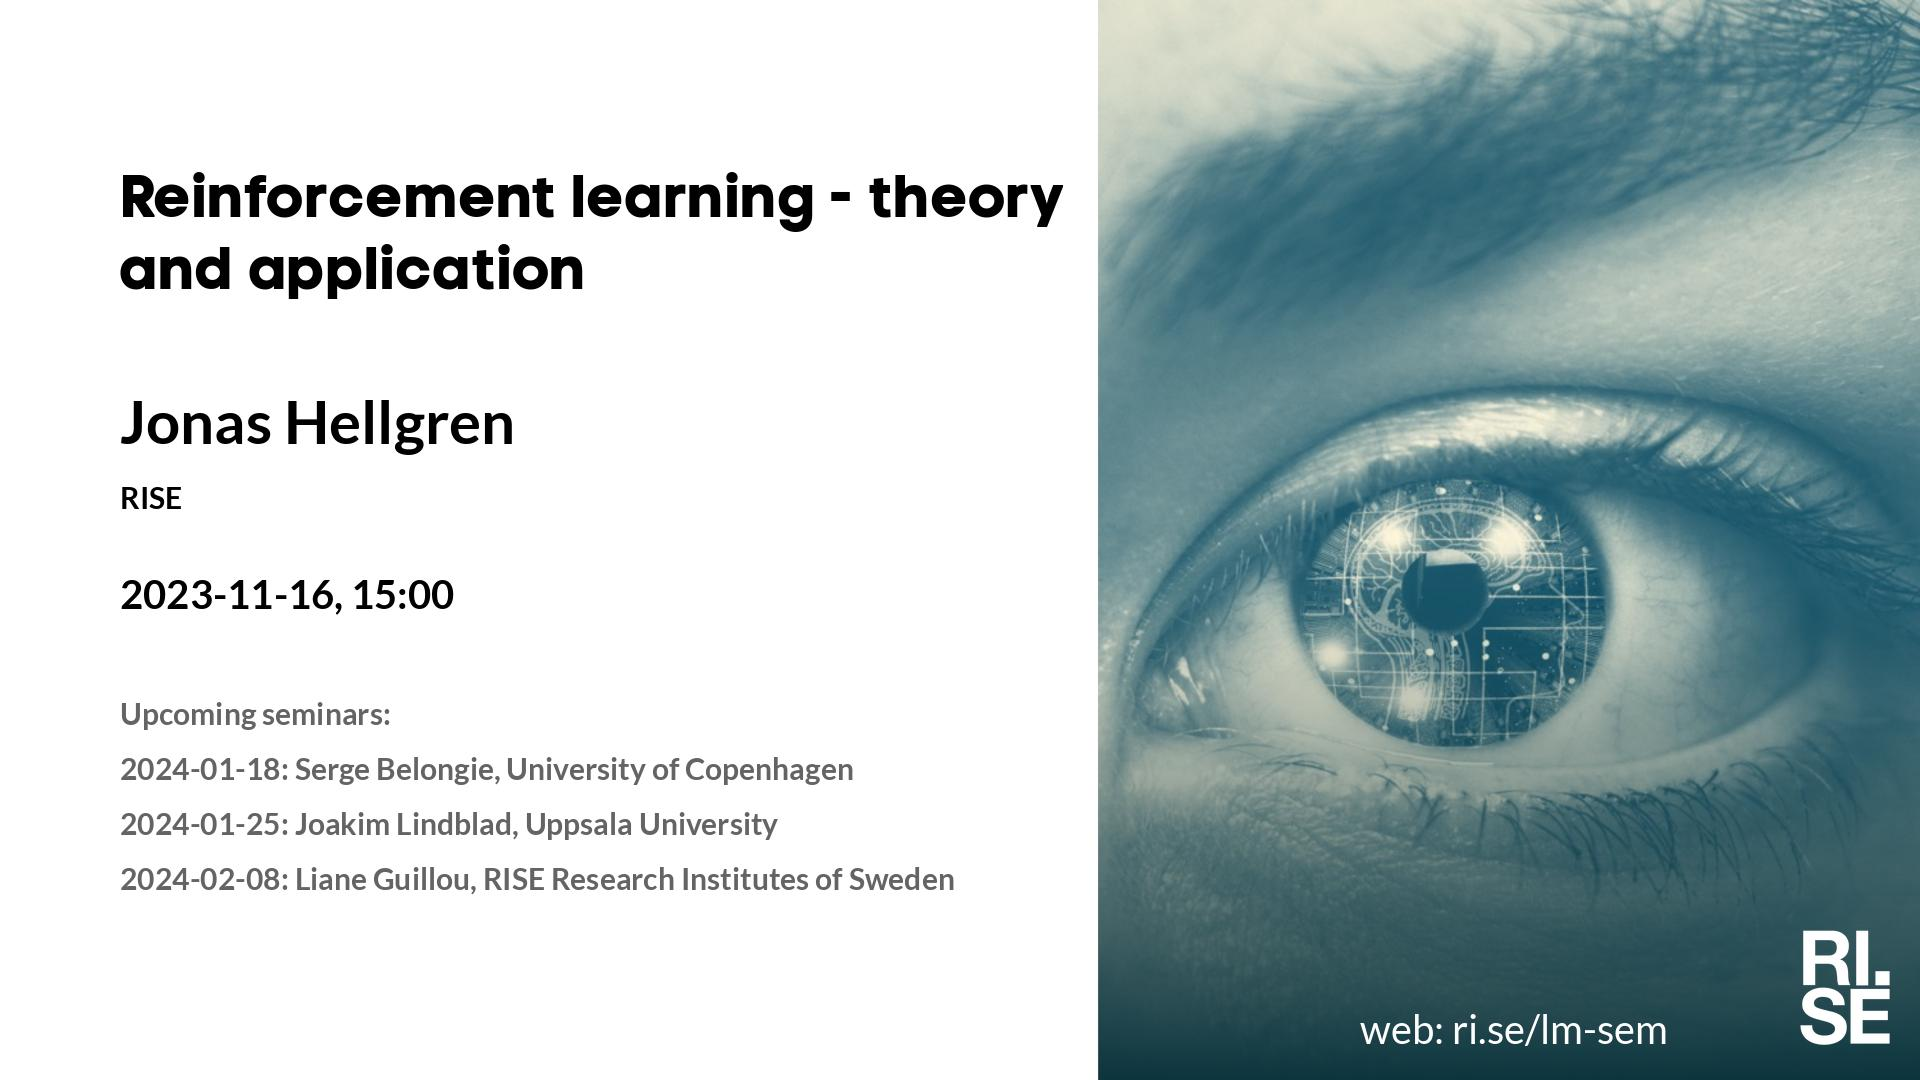
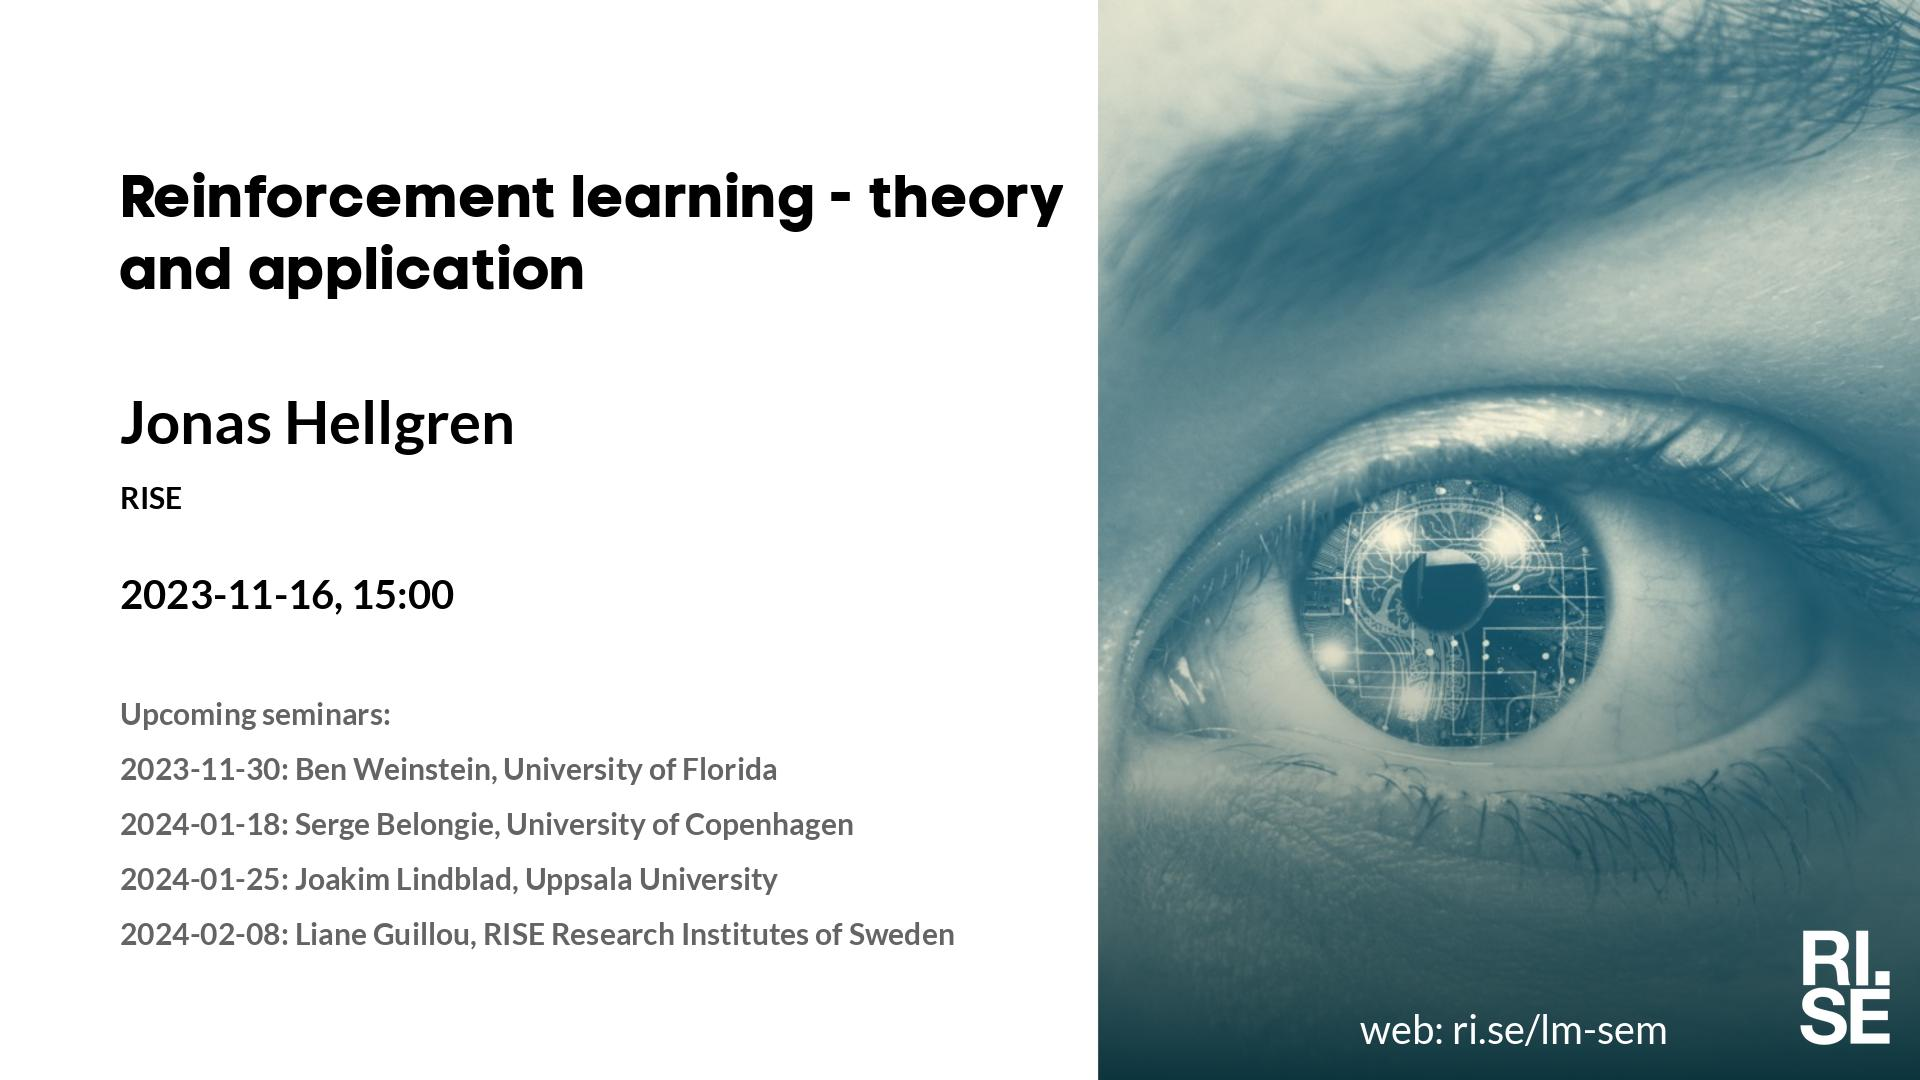
Updated plan on web site.

Changed region(s): [[0.0938, 0.7028, 0.5, 0.825], [0.0625, 0.8556, 0.5, 0.8861]]

diff --git a/lm/index.md b/lm/index.md
@@ -5,7 +5,7 @@ metatags: "<meta name=\"robots\" content=\"noindex,nofollow\" />"
 <style type="text/css" scoped>
 td, th {border: 1px solid #ccc; padding: 0.6em;}
 table {border-collapse: collapse;}
-</style># Learning Machines Plan 2023-10-05
+</style># Learning Machines Plan 2023-10-06
 
 | date | speaker                                   | photo | shareable | meeting backdrop | youtube thumbnail | <a title="Speaker, Title, Abstract, Bio, Photo. Strikethrough means we don't have it yet.">comment</a>        |
 | ---- | ----------------------------------------- | ----- | ----- | ----- | ----- | -------------- |
@@ -19,7 +19,7 @@ table {border-collapse: collapse;}
 |  2023-11-09  |  [Nataša Sladoje, Uppsala University](2023-11-09.md)  |    |  [social media ](social-media-natasa-sladoje.jpg)  |  [meeting backdrop ](meeting-backdrop-natasa-sladoje.jpg)  |  [youtube thumbnail ](youtube-thumbnail-natasa-sladoje.jpg)  |  S~~TABP~~  |
 |  2023-11-16  |  [Jonas Hellgren, RISE](2023-11-16.md)  |    |  [social media ](social-media-jonas-hellgren.jpg)  |  [meeting backdrop ](meeting-backdrop-jonas-hellgren.jpg)  |  [youtube thumbnail ](youtube-thumbnail-jonas-hellgren.jpg)  |  ST~~ABP~~  |
 | <span style="color:red"> 2023-11-23 </span> | <span style="color:red"> Thanksgiving </span> | <span style="color:red">  </span> | <span style="color:red">  </span> | <span style="color:red">  </span> | <span style="color:red">  </span> | <span style="color:red"> CANCELLED </span> |
-| <span style="color:grey"> 2023-11-30 </span> | <span style="color:grey"> Ben W. ? </span> | <span style="color:grey">  </span> | <span style="color:grey">  </span> | <span style="color:grey">  </span> | <span style="color:grey">  </span> | <span style="color:grey"> ?~~TABP~~ </span> |
+|  2023-11-30  |  [Ben Weinstein, University of Florida](2023-11-30.md)  |    |  [social media ](social-media-ben-weinstein.jpg)  |  [meeting backdrop ](meeting-backdrop-ben-weinstein.jpg)  |  [youtube thumbnail ](youtube-thumbnail-ben-weinstein.jpg)  |  S~~TABP~~  |
 | <span style="color:purple"> 2023-12-07 </span> | <span style="color:purple"> *Up for grabs!!!* </span> | <span style="color:purple">  </span> | <span style="color:purple">  </span> | <span style="color:purple">  </span> | <span style="color:purple">  </span> | <span style="color:purple"> ~~STABP~~ </span> |
 | <span style="color:purple"> 2023-12-14 </span> | <span style="color:purple"> *Up for grabs!!!* </span> | <span style="color:purple">  </span> | <span style="color:purple">  </span> | <span style="color:purple">  </span> | <span style="color:purple">  </span> | <span style="color:purple"> ~~STABP~~ </span> |
 | <span style="color:red"> 2023-12-21 </span> | <span style="color:red"> Christmas </span> | <span style="color:red">  </span> | <span style="color:red">  </span> | <span style="color:red">  </span> | <span style="color:red">  </span> | <span style="color:red"> CANCELLED </span> |

diff --git a/lm/2023-11-30.md b/lm/2023-11-30.md
@@ -4,9 +4,9 @@ metatags: "<meta name=\"robots\" content=\"noindex,nofollow\" />"
 ---
 Welcome to this week's Learning Machines seminar.
 
-**Title:** Reinforcement learning - theory, toy problems from Open AI Gym, and application examples
+**Title:** N/A
 
-**Speaker:** Jonas Hellgren, RISE
+**Speaker:** Ben Weinstein, University of Florida
 
 **Abstract:** N/A
 
@@ -14,11 +14,10 @@ Welcome to this week's Learning Machines seminar.
 
 **Location:** This is an online seminar. Connect using Zoom.
 
-**Zoom link:** [https://rise.zoom.us/j/208117140?pwd=c0tQUXBNbUhXS0ZtRGFSSTc0SDFRQT09](https://rise.zoom.us/j/208117140?pwd=c0tQUXBNbUhXS0ZtRGFSSTc0SDFRQT09)
+**Zoom link:** [https://rise.zoom.us/j/208117140](https://rise.zoom.us/j/208117140)
 
 **Upcoming seminars:**
 
-* 2023-11-30: Ben Weinstein, University of Florida
 * 2024-01-18: Serge Belongie, University of Copenhagen
 * 2024-01-25: Joakim Lindblad, Uppsala University
 * 2024-02-08: Liane Guillou, RISE Research Institutes of Sweden

diff --git a/lm/2023-11-09.md b/lm/2023-11-09.md
@@ -19,9 +19,9 @@ Welcome to this week's Learning Machines seminar.
 **Upcoming seminars:**
 
 * 2023-11-16: Jonas Hellgren, RISE
+* 2023-11-30: Ben Weinstein, University of Florida
 * 2024-01-18: Serge Belongie, University of Copenhagen
 * 2024-01-25: Joakim Lindblad, Uppsala University
-* 2024-02-08: Liane Guillou, RISE Research Institutes of Sweden
 
 More information and coming seminars: [https://ri.se/lm-sem](https://ri.se/lm-sem)
 
